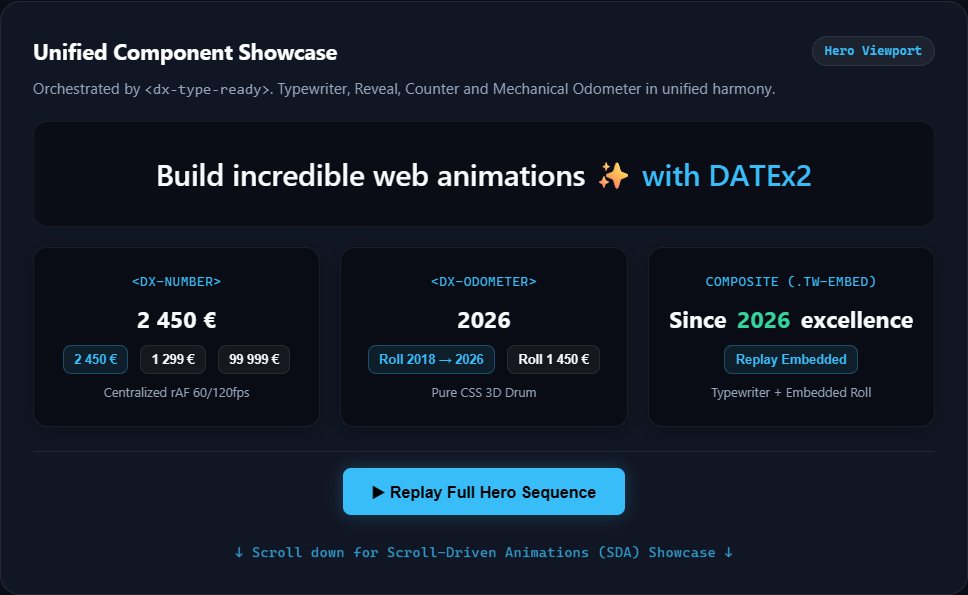
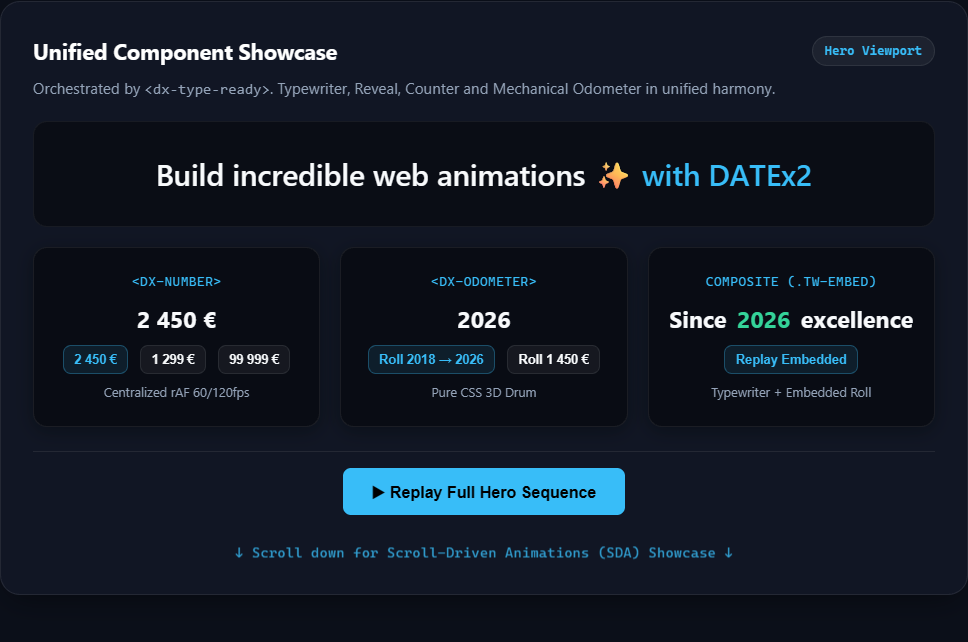
fix(typing): eliminate text shift on animation complete by flattening in-place and keeping continuous document flow

diff --git a/src/css/dx-type.css b/src/css/dx-type.css
@@ -236,36 +236,23 @@ c:nth-child(48) { --i: 47; }
 c:nth-child(49) { --i: 48; }
 c:nth-child(50) { --i: 49; }
 
-/* ─── Search Text in Document Flow: Reserves Full Width & Searchable ───────── */
-:is(dx-type-sda, dx-type, dx-type-ready):not(.TYPED) > s-t {
-    visibility: hidden;
-    display: inline-block;
-    white-space: nowrap;
-}
-
-/* ─── Animated <t> Tree: Overlaid on top of reserved <s-t> space ──────────── */
-:is(dx-type-sda, dx-type, dx-type-ready):not(.TYPED) > t {
-    position: absolute;
-    top: 0;
-    left: 0;
-    width: 100%;
-    height: 100%;
-    white-space: nowrap;
-    display: inline-block;
-    pointer-events: none;
-}
-
-/* ─── On .TYPED: <s-t> becomes visible in the exact same reserved space ────── */
-:is(dx-type-sda, dx-type, dx-type-ready).TYPED > s-t {
+/* ─── Search Text in Document Flow: Reserves Full Width before unpack ─────── */
+:is(dx-type-sda, dx-type, dx-type-ready):not(.type-active):not(.TYPED) > s-t {
     visibility: visible;
     display: inline-block;
-    position: static;
     white-space: nowrap;
 }
 
-/* ─── Hide Animated Template & Tree After Typed ────────────────────────────── */
-:is(dx-type-sda, dx-type, dx-type-ready, .TYPED).TYPED > :is(t, template) {
+:is(dx-type-sda, dx-type, dx-type-ready).type-active > s-t {
     display: none !important;
+}
+
+/* ─── Animated <t> Tree: Normal document flow during typing ──────────────── */
+:is(dx-type-sda, dx-type, dx-type-ready) > t {
+    display: inline-block;
+    vertical-align: baseline;
+    line-height: inherit;
+    white-space: nowrap;
 }
 
 :is(dx-type-sda, dx-type, dx-type-ready) > template {

diff --git a/scripts/record-exact-gif.js b/scripts/record-exact-gif.js
@@ -160,8 +160,8 @@ async function recordHero() {
     }
 
     const finalGif = gifBuffer.subarray(0, writer.end());
-    writeFileSync(join(root, 'assets/hero-animated.gif'), finalGif);
-    console.log(`✨ Generated assets/hero-animated.gif (${(finalGif.length / 1024).toFixed(1)} KB)!`);
+    writeFileSync(join(root, 'assets/hero-showcase.gif'), finalGif);
+    console.log(`✨ Generated assets/hero-showcase.gif (${(finalGif.length / 1024).toFixed(1)} KB)!`);
 }
 
 async function recordSda() {
@@ -255,8 +255,8 @@ async function recordSda() {
     }
 
     const finalGif = gifBuffer.subarray(0, writer.end());
-    writeFileSync(join(root, 'assets/sda-animated.gif'), finalGif);
-    console.log(`✨ Generated assets/sda-animated.gif (${(finalGif.length / 1024).toFixed(1)} KB)!`);
+    writeFileSync(join(root, 'assets/sda-showcase.gif'), finalGif);
+    console.log(`✨ Generated assets/sda-showcase.gif (${(finalGif.length / 1024).toFixed(1)} KB)!`);
 }
 
 async function main() {

diff --git a/src/client/base/dx-typing.js b/src/client/base/dx-typing.js
@@ -72,14 +72,11 @@ export function cleanupTypedDOM(typeEl) {
 
         const st = typeEl.querySelector(':scope > s-t');
         const t = typeEl.querySelector(':scope > t');
-        const embeds = typeEl.querySelectorAll('dx-odometer, ui-odometer, dx-number, ui-number, .tw-embed');
 
-        if (st) {
-            // Standard & composite case: CSS switched to visibility: visible on <s-t>, remove temporary <t> tree in rAF
-            if (t) t.remove();
-        } else if (embeds.length && t) {
-            // Embedded interactive case (e.g. <dx-odometer>): preserve live odometer in DOM
+        if (t) {
+            // Remove <s-t> and flatten <c>/<w> in place to eliminate any kerning/raster shift
             if (st) st.remove();
+
             const allC = Array.from(t.querySelectorAll('c'));
             for (const c of allC) {
                 if (!c.querySelector('dx-odometer, ui-odometer, dx-number, ui-number, .tw-embed')) {

diff --git a/README.md b/README.md
@@ -12,7 +12,7 @@
 > High-performance, zero-dependency **DATEx2 Web Components** for scroll-triggered typewriter animations, character reveals, batched numeric counters, and mechanical rolling drum odometers.
 
 <p align="center">
-  <img src="assets/hero-animated.gif" alt="@datex2/dx-type Live Animated Showcase" width="100%">
+  <img src="assets/hero-showcase.gif" alt="@datex2/dx-type Live Animated Showcase" width="100%">
 </p>
 
 Designed for instant zero-layout-shift rendering, single-rAF batching, JIT template unpacking via singleton `IntersectionObserver`, and GPU compositor-thread animations.
@@ -447,7 +447,7 @@ An interactive showcase featuring live replay controls, fold isolation, and 10 s
 * 📁 **Demo Source**: [`demo/index.html`](demo/index.html) and [`demo/demo.css`](demo/demo.css)
 
 <p align="center">
-  <img src="assets/sda-animated.gif" alt="Scroll-Driven Animations Showcase" width="100%">
+  <img src="assets/sda-showcase.gif" alt="Scroll-Driven Animations Showcase" width="100%">
 </p>
 
 ### Running the Demo Locally
